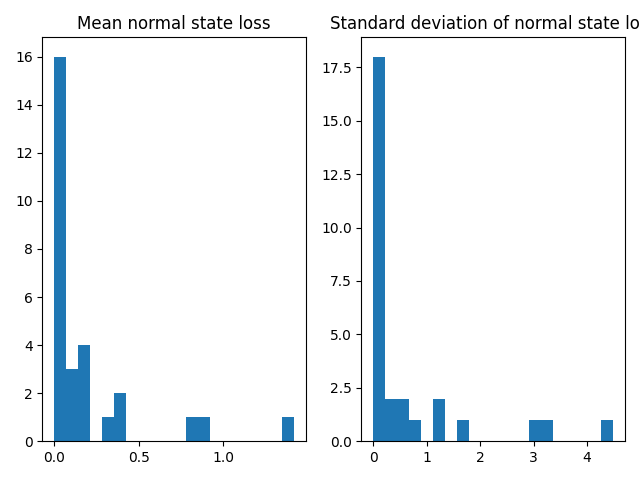
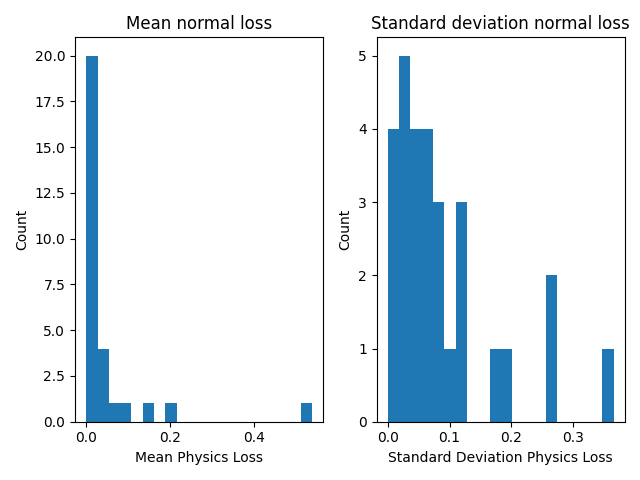
Before self edges

Changed region(s): [[0.5, 0.0312, 1.0, 0.9688], [0.0312, 0.0938, 0.5, 0.9688], [0.125, 0.0312, 0.4375, 0.0625]]

diff --git a/training/pinn_trainer.py b/training/pinn_trainer.py
@@ -35,10 +35,13 @@ class PINNTrainer:
         self.equations = build_equations(conf, dataset.get_categorical_features(), 
                                          dataset.get_continuous_features())
         
-    def _init_ddp(self, rank, datasets, shuffles, backend="nccl"):
+    def _init_ddp(self, rank, datasets, shuffles):
         os.environ['MASTER_ADDR'] = '127.0.0.1'
         os.environ['MASTER_PORT'] = '29500'
-        
+        if self.conf["train"]["cuda"]:
+            backend = "nccl"
+        else:
+            backend = "gloo"
         dist.init_process_group(backend, rank=rank, world_size=self.size)
         if backend == "gloo":
             self.model = torch.nn.parallel.DistributedDataParallel(self.model)
@@ -89,10 +92,7 @@ class PINNTrainer:
 
         if rank == 0:
             print(self.model)
-        if self.conf["train"]["cuda"]:
-            train_loader, val_loader = self._init_ddp(rank, [train_dataset, val_dataset], [True, False])
-        else:
-            train_loader, val_loader = self._init_ddp(rank, [train_dataset, val_dataset], [True, False], "gloo")
+        train_loader, val_loader = self._init_ddp(rank, [train_dataset, val_dataset], [True, False])
         epochs = self.conf["train"]["epochs"]
 
         if rank == 0:
@@ -208,9 +208,12 @@ class PINNTrainer:
             if rank == 0:
                 print("Checpoint does not exist")
             return
+        device = torch.device(f"cuda:{rank}") if self.conf["train"]["cuda"] else torch.device("cpu")
         checkpoint = torch.load(self.checkpoint_path)
         self.model.load_state_dict(checkpoint["model"])
-        loader = self._init_ddp(rank, [dataset], [False], "gloo")[0]
+        if rank == 0:
+            print(self.model)
+        loader = self._init_ddp(rank, [dataset], [False])[0]
 
         losses = []
         if rank == 0:
@@ -218,7 +221,15 @@ class PINNTrainer:
         else:
             data_loader = loader
 
-        for inputs, targets in data_loader:
+        for data in data_loader:
+            if self.use_graph:
+                data = data.to(device)
+                inputs = data
+                targets = data.y
+            else:
+                inputs, targets = data
+                inputs = inputs.to(device)
+                targets = targets.to(device)
             data_loss, physics_loss = self._compute_loss(inputs, targets)
             data_loss = data_loss.mean(dim=1).view(-1, 1)
             loss = torch.cat([data_loss, physics_loss], dim=1)
@@ -247,12 +258,13 @@ class PINNTrainer:
                 print("Checkpoint does not exist")
             return
         
+        device = torch.device(f"cuda:{rank}") if self.conf["train"]["cuda"] else torch.device("cpu")
         checkpoint = torch.load(self.checkpoint_path)
         mean = checkpoint["mean"]
         std = checkpoint["std"]
         threshold = self.conf["model"]["threshold"]
         self.model.load_state_dict(checkpoint["model"])
-        loader = self._init_ddp(rank, [datset], [False], "gloo")[0]
+        loader = self._init_ddp(rank, [datset], [False])[0]
         if rank == 0:
             data_loader = tqdm(loader)
         else:
@@ -262,7 +274,15 @@ class PINNTrainer:
         attacks = []
         attack_idxs = []
         max_idx = []
-        for inputs, targets, attack_idx in data_loader:
+        for data in data_loader:
+            if not self.use_graph:
+                inputs, targets = data
+                inputs = inputs.to(device)
+                targets = targets.to(device)
+            else:
+                data = data.to(device)
+                inputs = data
+                targets = data.y
             data_loss, physics_loss = self._compute_loss(inputs, targets)
             data_loss = data_loss.mean(dim=1).view(-1, 1)
             loss = torch.cat([data_loss, physics_loss], dim=1)
@@ -331,10 +351,12 @@ class PINNTrainer:
         predicted = self.model(inputs)
         data_loss = F.mse_loss(predicted, targets, reduction='none')
         # data_loss = torch.zeros_like(targets)
+
         physics_loss = torch.zeros((len(inputs), len(self.equations)), 
                                    device=predicted.device)
         if self.use_physics:
             for i, equation in enumerate(self.equations):
                 physics_loss[:, i] = equation.confidence_loss(inputs, predicted, targets)
-
+        if self.use_graph:
+            data_loss = data_loss.view(physics_loss.size(0), -1)
         return data_loss, physics_loss

diff --git a/equations/reactive_power_graph_equation.py b/equations/reactive_power_graph_equation.py
@@ -6,10 +6,7 @@ from torch_geometric.data import Data
 from .equation import Equation
 
 
-V_IDX = 3
-THETA_IDX = 2
-MW_IDX = 1
-class RealPowerGraphEquation(Equation):
+class ReactivePowerGrapghEquation(Equation):
     def __init__(self, n_buses, bus_num, bus_type_file) -> None:
         self.n_buses = n_buses
         self.bus_num = bus_num
@@ -19,20 +16,20 @@ class RealPowerGraphEquation(Equation):
     def evaluate(self, graph: Data):
         n_nodes = len(graph.x)
         node_idxs = torch.tensor(np.array(list(range(self.bus_num, n_nodes, self.n_buses))))
-        
+
         if self.bus_type == 1:
-            v_k = graph.y[node_idxs, 1]
-            power_k = graph.x[node_idxs, 1]
-            theta_k = graph.y[node_idxs, 0]
-        elif self.bus_type == 2:
-            v_k = graph.x[node_idxs, 1]
             power_k = graph.x[node_idxs, 0]
+            theta_k = graph.y[node_idxs, 0]
+            v_k = graph.y[node_idxs, 1]
+        elif self.bus_type == 2:
+            power_k = graph.y[node_idxs, 0]
             theta_k = graph.y[node_idxs, 1]
-        elif self.bus_type == 3:
             v_k = graph.x[node_idxs, 1]
-            power_k = graph.y[node_idxs, 1]
+        elif self.bus_type == 3:
+            power_k = graph.y[node_idxs, 0]
             theta_k = graph.x[node_idxs, 0]
-            
+            v_k = graph.x[node_idxs, 1]
+        
         edge_indexes = [(graph.edge_index[0, :] == i).nonzero().view(1, -1) for i in node_idxs]
         edge_indexes = torch.cat(edge_indexes, dim=0)
         bus_loss = 0
@@ -51,12 +48,12 @@ class RealPowerGraphEquation(Equation):
                 theta_j = graph.x[targets, 0]
                 v_j = graph.x[targets, 1]
             radians = (torch.pi / 180) * (theta_k - theta_j)
-            bus_loss += v_j * (gs * torch.cos(radians) + bs * torch.sin(radians))
-
+            bus_loss += v_j * (gs * torch.sin(radians) - bs * torch.cos(radians))
+            
         gs = graph.x[node_idxs, -2]
         bs = graph.x[node_idxs, -1]
         radians = (torch.pi / 180) * (theta_k - theta_k)
-        bus_loss += v_k * (gs * torch.cos(radians) + bs * torch.sin(radians))
+        bus_loss += v_k * (gs * torch.sin(radians) - bs * torch.cos(radians))
         bus_loss *= v_k
         bus_loss -= power_k
         return bus_loss ** 2
@@ -66,17 +63,17 @@ class RealPowerGraphEquation(Equation):
         node_idxs = torch.tensor(np.array(list(range(self.bus_num, n_nodes, self.n_buses))))
 
         if self.bus_type == 1:
-            v_k = output[node_idxs, 1]
-            power_k = input_graph.x[node_idxs, 1]
-            theta_k = output[node_idxs, 0]
-        elif self.bus_type == 2:
-            v_k = input_graph.x[node_idxs, 1]
             power_k = input_graph.x[node_idxs, 0]
+            theta_k = output[node_idxs, 0]
+            v_k = output[node_idxs, 1]
+        elif self.bus_type == 2:
+            power_k = output[node_idxs, 0]
             theta_k = output[node_idxs, 1]
-        elif self.bus_type == 3:
             v_k = input_graph.x[node_idxs, 1]
-            power_k = output[node_idxs, 1]
+        elif self.bus_type == 3:
+            power_k = output[node_idxs, 0]
             theta_k = input_graph.x[node_idxs, 0]
+            v_k = input_graph.x[node_idxs, 1]
 
         edge_indexes = [(input_graph.edge_index[0, :] == i).nonzero().view(1, -1) for i in node_idxs]
         edge_indexes = torch.cat(edge_indexes, dim=0)
@@ -96,12 +93,12 @@ class RealPowerGraphEquation(Equation):
                 theta_j = input_graph.x[targets, 0]
                 v_j = input_graph.x[targets, 1]
             radians = (torch.pi / 180) * (theta_k - theta_j)
-            bus_loss += v_j * (gs * torch.cos(radians) + bs * torch.sin(radians))
+            bus_loss += v_j * (gs * torch.sin(radians) - bs * torch.cos(radians))
 
         gs = input_graph.x[node_idxs, -2]
         bs = input_graph.x[node_idxs, -1]
         radians = (torch.pi / 180) * (theta_k - theta_k)
-        bus_loss += v_k *(gs * torch.cos(radians) + bs * torch.sin(radians))
+        bus_loss += v_k * (gs * torch.sin(radians) - bs * torch.cos(radians))
         bus_loss *= v_k
         bus_loss -= power_k
         return bus_loss ** 2

diff --git a/datasets/grid_graph_dataset.py b/datasets/grid_graph_dataset.py
@@ -14,13 +14,13 @@ class GridGraphDataset(InMemoryDataset):
         if not os.path.exists(root):
             os.makedirs(root)
         
-        data = pd.read_csv(data_path)
         self.types = pd.read_csv(conf["data"]["types"])
         self.standard_topology = pd.read_csv(conf["data"]["ybus"]).map(to_complex)
         self.mva_base = conf["data"]["mva_base"]
         self.n_buses = conf["data"]["n_buses"]
         self.powerworld = conf["data"]["powerworld"]
 
+        data = pd.read_csv(data_path).sample(frac=1)
         self.features = data.iloc[:, 2: -1].to_numpy()
         self.labels = data.iloc[:, -1] == "Yes"
         self.labels = self.labels.to_numpy()
@@ -77,6 +77,7 @@ class GridGraphDataset(InMemoryDataset):
                 ybus = self.features[row, ybus_base + i]
                 self.features[row, ybus_base + 2 * i] = ybus.real
                 self.features[row, ybus_base + 2 * i + 1] = ybus.imag
+
     @property
     def raw_file_names(self) -> str | List[str] | Tuple:
         return []
@@ -91,7 +92,6 @@ class GridGraphDataset(InMemoryDataset):
     def process(self):
         self._per_unit()
         self.features = self.features.astype(np.float32)
-        print(np.min(self.features), np.max(self.features))
 
         self.input_mask = []
         self.output_mask = []
@@ -144,8 +144,8 @@ class GridGraphDataset(InMemoryDataset):
             i = 0
             j = 0
             for pos in range(4 * self.n_buses, len(self.features[graph]), 2):
-                if( i != j) and (self.standard_topology.iloc[i, j].real > 0 or 
-                                 self.standard_topology.iloc[i, j].imag > 0):
+                if( i != j) and (self.standard_topology.iloc[i, j].real != 0 or 
+                                 self.standard_topology.iloc[i, j].imag != 0):
                     sources.append(i)
                     targets.append(j)
                     edge_features.append(self.features[graph, pos: pos + 2])

diff --git a/models/gcn.py b/models/gcn.py
@@ -8,13 +8,15 @@ class GCN(nn.Module):
     def __init__(self, conf, n_inputs, n_outputs) -> None:
         super().__init__()
         self.hidden_size = conf["model"]["hidden_size"]
-        self.conv1 = gnn.GCNConv(n_inputs, self.hidden_size)
-        self.conv2 = gnn.GCNConv(self.hidden_size, 2)
+        self.n_heads = conf["model"]["n_heads"]
+        self.conv1 = gnn.GATConv(n_inputs, self.hidden_size, self.n_heads)
+        self.conv2 = gnn.GATConv(self.hidden_size * self.n_heads, 2)
 
     def forward(self, data):
         x = data.x
         edge_index = data.edge_index
-        h = self.conv1(x, edge_index)
+        edge_attr = data.edge_attr
+        h = self.conv1(x, edge_index, edge_attr)
         h = h.relu()
-        h = self.conv2(h, edge_index)
+        h = self.conv2(h, edge_index, edge_attr)
         return h

diff --git a/equations/build_equations.py b/equations/build_equations.py
@@ -2,6 +2,7 @@ from .arx_equation import ARXEquation
 from .real_power_equation import RealPowerEquation
 from .reactive_power_equation import ReactivePowerEquation
 from .real_power_graph_equation import RealPowerGraphEquation
+from .reactive_power_graph_equation import ReactivePowerGrapghEquation
 
 def build_equations(conf, categorical_idxs, continuous_idxs):
     dataset = conf["data"]["type"]
@@ -77,6 +78,7 @@ def build_equations(conf, categorical_idxs, continuous_idxs):
         if graph:
             for i in range(n_buses):
                 equations.append(RealPowerGraphEquation(n_buses, i, bus_types))
+                equations.append(ReactivePowerGrapghEquation(n_buses, i, bus_types))
         else:
             for i in range(n_buses):
                 equations.append(RealPowerEquation(n_buses, i, bus_types))

diff --git a/plot_normal.py b/plot_normal.py
@@ -1,18 +1,21 @@
 import matplotlib.pyplot as plt
 import torch
 
-checkpoint = "grid_14_continuous"
+checkpoint = "grid_14_gnn"
 profile_path = f"./checkpoint/{checkpoint}/model.pt"
 profile = torch.load(profile_path)
 mean = profile["mean"].numpy()
-print(mean)
 std = profile["std"].numpy()
 
 fig, ax = plt.subplots(1, 2)
 ax[0].hist(mean, bins=20)
 ax[1].hist(std, bins=20)
-ax[0].set_title("Mean normal state loss")
-ax[1].set_title("Standard deviation of normal state loss")
+ax[0].set(title="Mean normal loss",
+          xlabel="Mean Physics Loss",
+          ylabel="Count")
+ax[1].set(title="Standard deviation normal loss",
+          xlabel="Standard Deviation Physics Loss",
+          ylabel="Count")
 plt.tight_layout()
 # plt.show()
 plt.savefig("normal_profile.png")

diff --git a/run.py b/run.py
@@ -52,6 +52,7 @@ def get_normal_profile():
     size = int(find_error_fraction * len(dataset))
     idx = list(range(start, start + size))
     normal = Subset(dataset, idx)
+    print("Normal data size:", len(normal))
 
     trainer = PINNTrainer(conf, dataset)
     mp.spawn(trainer.create_normal_profile, args=[normal],
